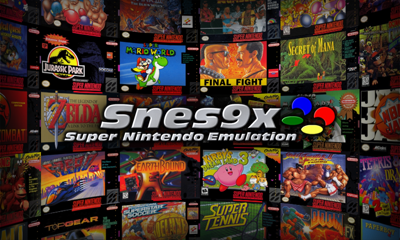
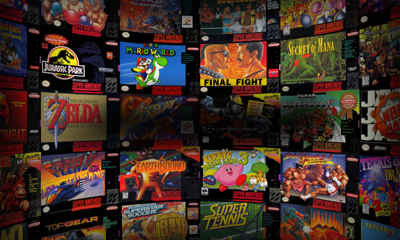
Skip second screen image for now, update start screen image

Changed region(s): [[0.15, 0.3792, 0.84, 0.6125]]

diff --git a/source/3dsmain.cpp b/source/3dsmain.cpp
@@ -65,20 +65,19 @@ int maxFramesForDialog = 120;
 char romFileName[_MAX_PATH];
 char romFileNameLastSelected[_MAX_PATH];
 bool screenSwapped = false;
-bool screenImageHidden;
 
 char* hotkeysData[HOTKEYS_COUNT][3];
 
 void setSecondScreenContent(bool newRomLoaded, bool settingsUpdated = false) {
     if (settings3DS.SecondScreenContent == CONTENT_IMAGE) {
-        ui3dsRenderScreenImage(screenSettings.SecondScreen, S9xGetGameFolder("cover.png"), newRomLoaded || screenImageHidden);
-        screenImageHidden = false;
+        // TODO: render second screen image
     } 
     else {
-        screenImageHidden = true;
         menu3dsDrawBlackScreen();
-        if (settings3DS.SecondScreenContent == CONTENT_INFO)
+        if (settings3DS.SecondScreenContent == CONTENT_INFO) {
             menu3dsSetRomInfo();
+        }
+            
         gpu3dsSwapScreenBuffers();
     }
 
@@ -1587,7 +1586,6 @@ void emulatorFinalize()
 {
     consoleClear();
     impl3dsFinalize();
-	ui3dsResetScreenImage();
 
 #ifndef RELEASE
     printf("gspWaitForP3D:\n");
@@ -1849,9 +1847,11 @@ void emulatorLoop()
 int main()
 {
     emulatorInitialize();
-    const char* startScreenImage = settings3DS.RomFsLoaded ? "romfs:/start-screen.png" : "sdmc:/snes9x_3ds_data/start-screen.png";
-    ui3dsRenderScreenImage(screenSettings.GameScreen, startScreenImage, true);
-    gfxSetDoubleBuffering(screenSettings.GameScreen, false); // prevents start screen image flickering
+    const char* startScreenBackground = settings3DS.RomFsLoaded ? "romfs:/start-screen.png" : "/3ds/snes9x_3ds/start-screen.png";
+    const char* startScreenLogo = settings3DS.RomFsLoaded ? "romfs:/logo.png" : "/3ds/snes9x_3ds/snes9x_3ds_data/logo.png";
+    
+    ui3dsRenderImage(screenSettings.GameScreen, startScreenBackground, IMAGE_TYPE::START_SCREEN);
+    ui3dsRenderImage(screenSettings.GameScreen, startScreenLogo, IMAGE_TYPE::LOGO, false);
     menuSelectFile();
     while (true)
     {

diff --git a/source/3dsimpl.cpp b/source/3dsimpl.cpp
@@ -116,9 +116,9 @@ void impl3dsShowSecondScreenMessage(const char *message) {
 	int x1 = bounds[B_DRIGHT];
 	int y1 = bounds[B_DBOTTOM];   
 	
-	if (settings3DS.SecondScreenContent == CONTENT_IMAGE && ui3dsScreenImageRendered()) {
+	if (settings3DS.SecondScreenContent == CONTENT_IMAGE) {
 		// ui3dsDrawRect() might overlap prior dialog which results in false dialog alpha value
-		ui3dsUpdateScreenBuffer(screenSettings.SecondScreen, true);
+		// TODO: restore second screen image
 	} else
 		ui3dsDrawRect(x0, y0, x1, y1, 0x111111);
 	
